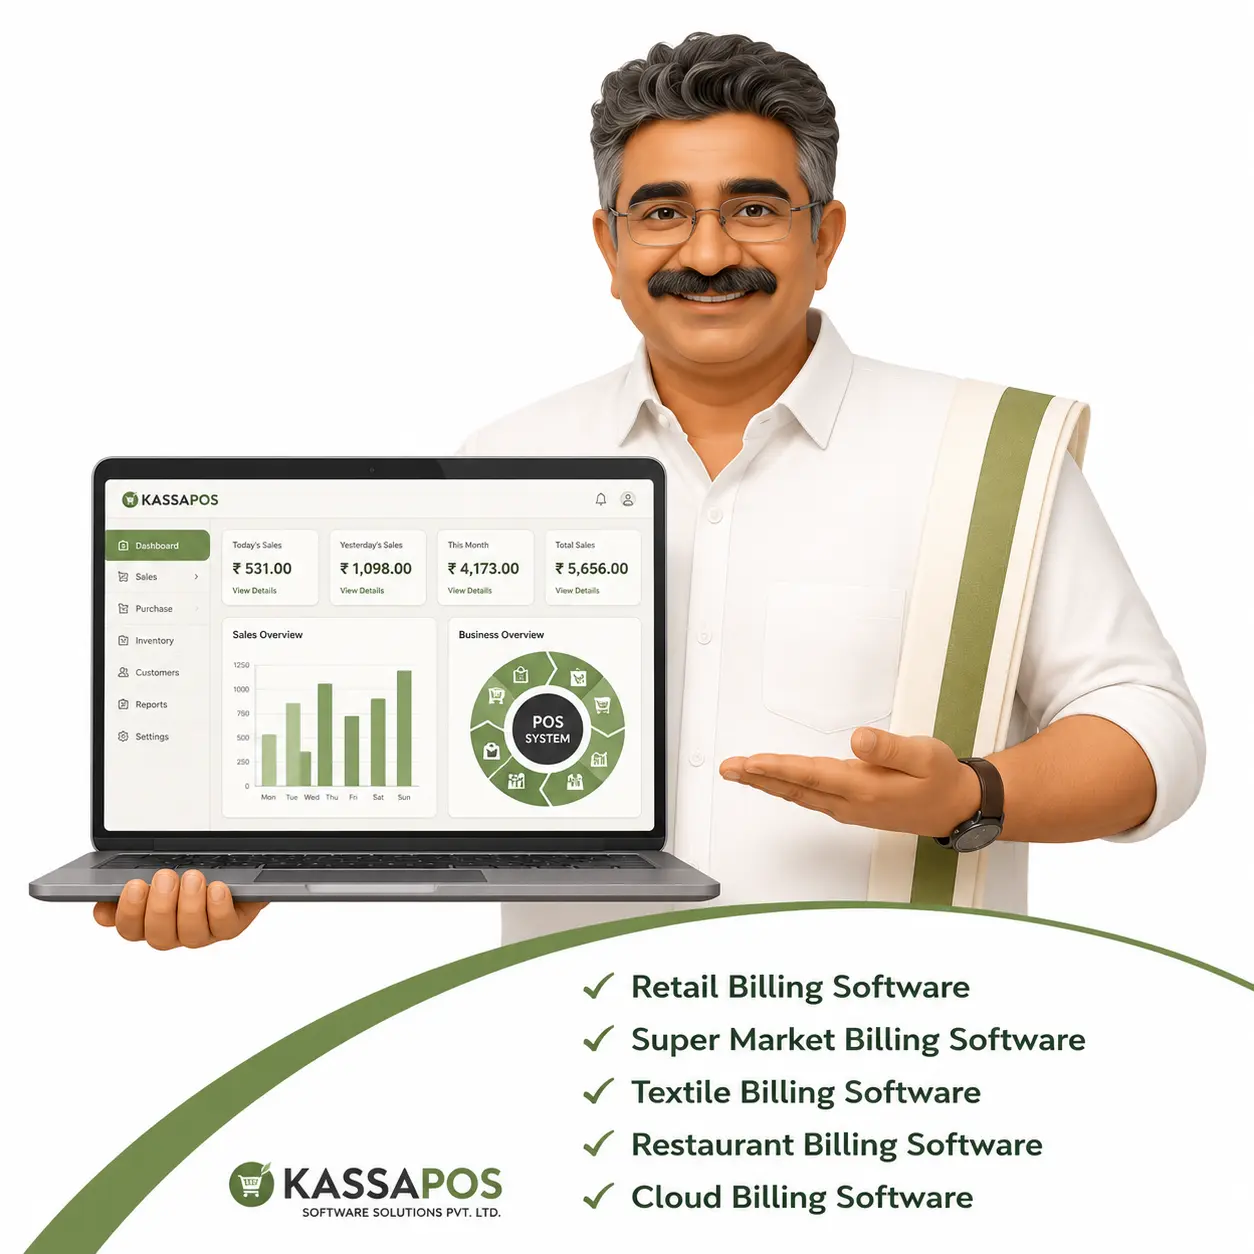
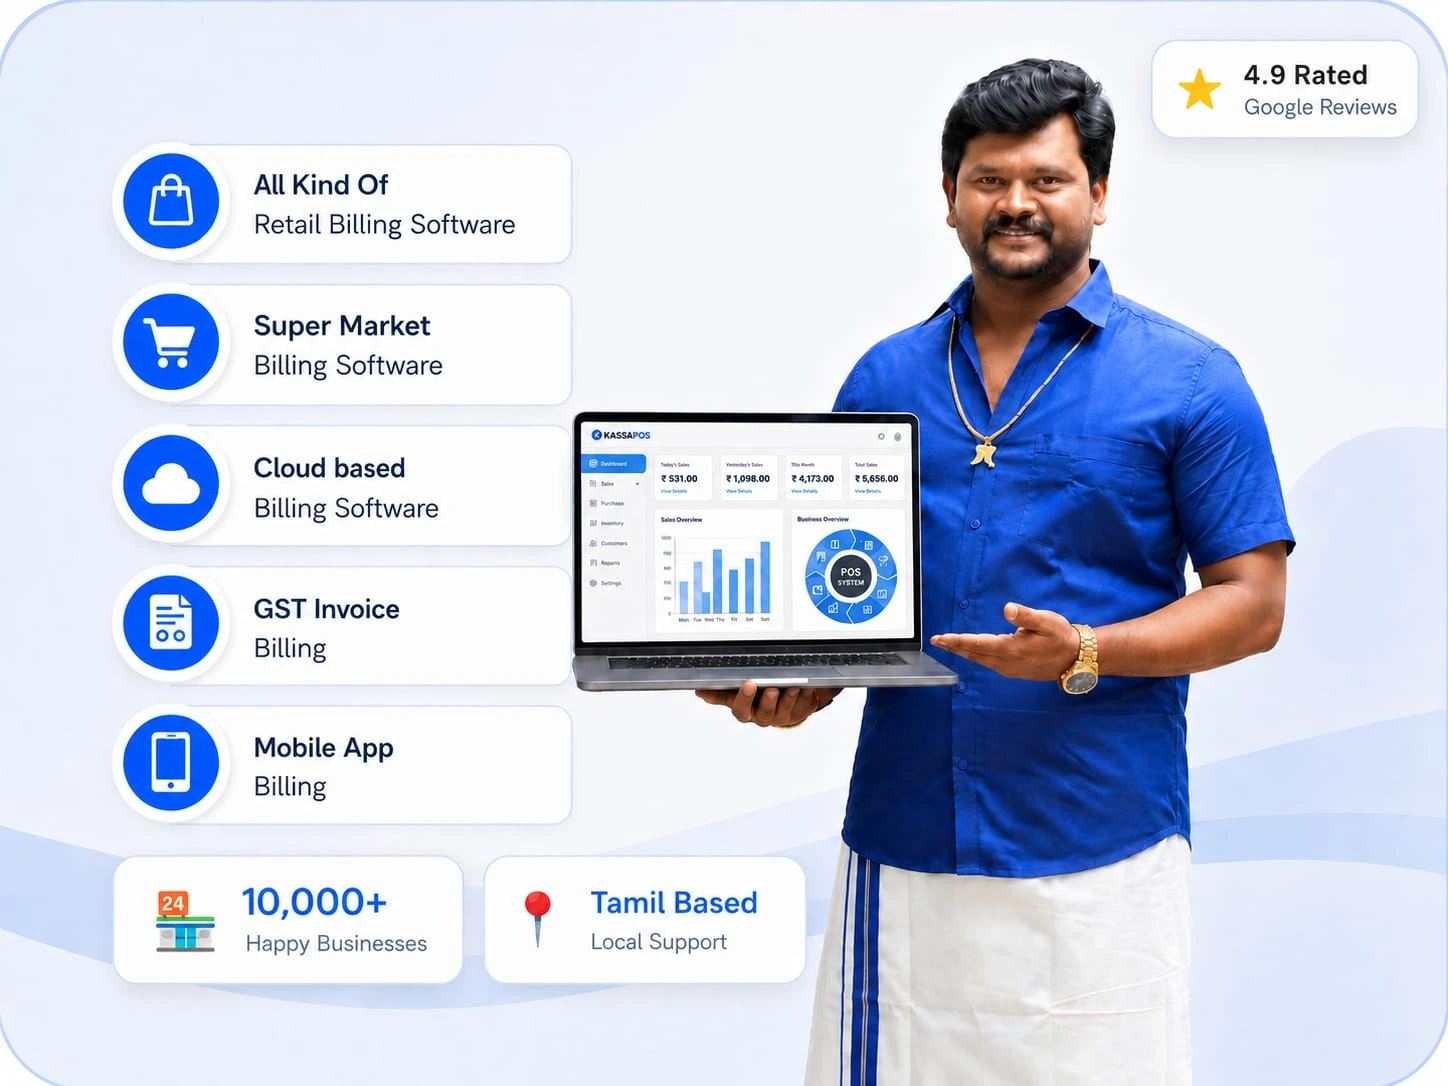
Add 5th hero slider slide + update hero image assets
- New slide: All Kind of Retail / Supermarket / Cloud / GST / Mobile App billing
- Remove leftover PNG hero images (replaced by WebP)
- Update hero webp assets

diff --git a/src/components/home/HeroSection.tsx b/src/components/home/HeroSection.tsx
@@ -71,6 +71,19 @@ const SLIDES = [
       "Multi-Branch",    "Cloud Backup",
     ],
   },
+  {
+    image: "/images/hero4.webp",
+    tag: "All-in-One Billing Platform",
+    h1: "All Kind of Retail",
+    h2: "Billing Software",
+    h3: "for Every Business",
+    sub: "Supermarket  •  Cloud-Based  •  GST Invoice\nMobile App Billing — All in One Place",
+    features: [
+      "All Retail Billing",   "Supermarket Billing",
+      "Cloud Based Billing",  "GST Invoice Billing",
+      "Mobile App Billing",
+    ],
+  },
 ];
 
 const TRUST = [
